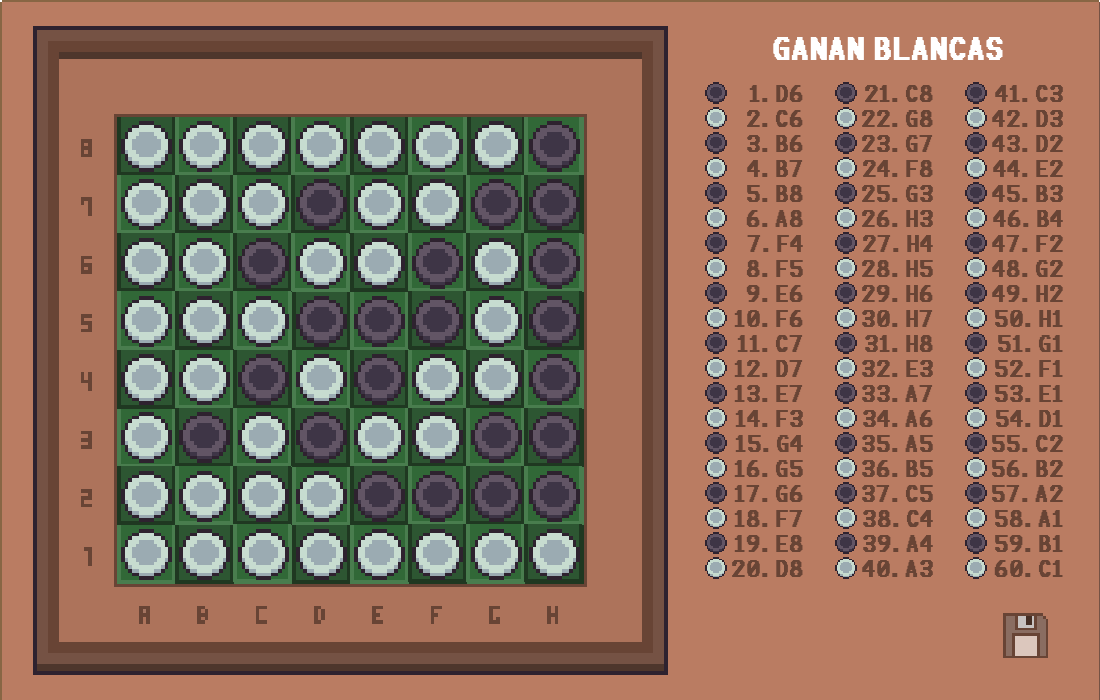
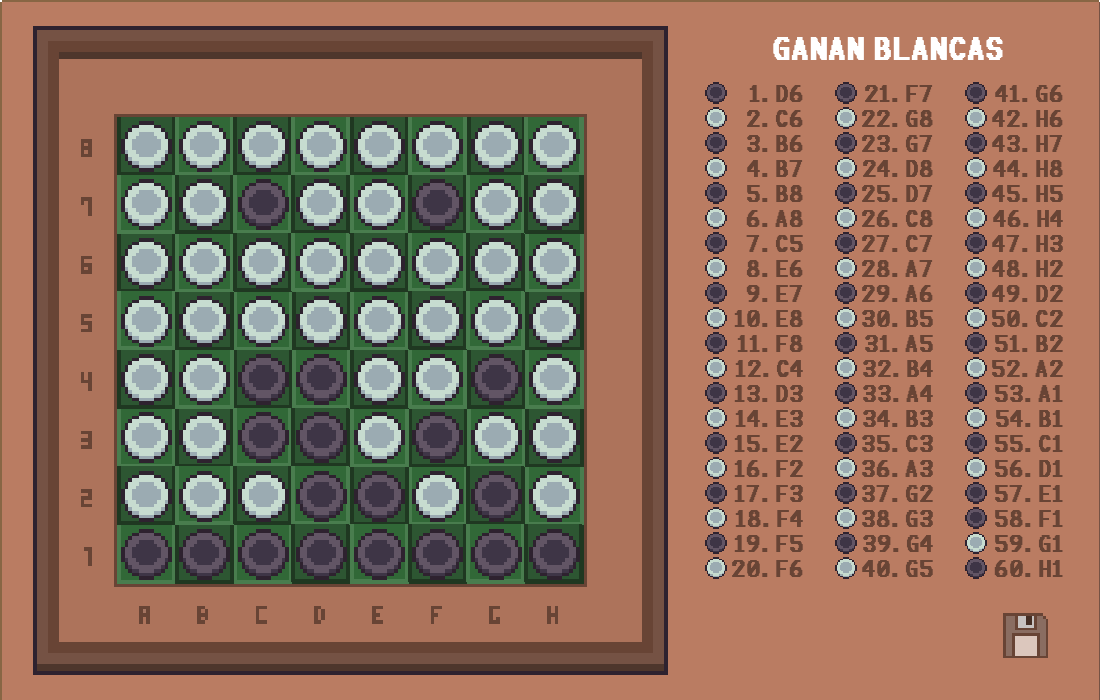
Introducidos cambios visuales en el tablero y función evaluadora por movilidad

diff --git a/src/jugadores/JugadorInteligente.py b/src/jugadores/JugadorInteligente.py
@@ -32,16 +32,46 @@ class JugadorInteligente():
 
         return random.randint(-100, 100)
     
-    def evaluarFichas(self,motor:IMotorDeJuego):
+    def evaluarFichas(self,motor:IMotorDeJuego,jugador:IJugador):
         """Evalua el movimiento en función del número de fichas de los jugadores, cuantas más fichas mejor"""
 
-        jugadorActivo = motor.getJugadorActivo()
-        jugadorContrario = motor.obtenerJugadorContario(jugadorActivo)
+        jugadorContrario = motor.obtenerJugadorContario(jugador)
 
-        fichasJugador = motor.obtenerFichasJugador(jugadorActivo)
+        fichasJugador = motor.obtenerFichasJugador(jugador)
         fichasContrario = motor.obtenerFichasJugador(jugadorContrario)
 
         return 100*(fichasJugador-fichasContrario)/(fichasJugador+fichasContrario)
+    
+    def evaluarMovilidad(self,motor:IMotorDeJuego,jugador:IJugador):
+        """Evalua el movimiento en función del número del número de movimientos posibles, cuantos más movimientos mejor"""
+
+        jugadorContrario = motor.obtenerJugadorContario(jugador)
+
+        movimientosJugador = len(motor.posiblesMovimientosJugador(jugador))
+        movimientosContrario = len(motor.posiblesMovimientosJugador(jugadorContrario))
+
+        if (movimientosJugador + movimientosContrario != 0):
+            puntuacion = 100*(movimientosJugador-movimientosContrario)/(movimientosJugador+movimientosContrario)
+        else:
+            puntuacion = 0
+
+        return puntuacion
+    
+    def evaluarEsquinas(self,motor:IMotorDeJuego,jugador:IJugador):
+        """Evalua el movimiento en función del número del número de movimientos posibles, cuantos más movimientos mejor"""
+
+        jugadorContrario = motor.obtenerJugadorContario(jugador)
+
+        #TODO:ARREGLAR
+        esquinasJugador = len(motor.posiblesMovimientosJugador(jugador))
+        esquinasContrario = len(motor.posiblesMovimientosJugador(jugadorContrario))
+
+        if (esquinasJugador + esquinasContrario != 0):
+            puntuacion = 100*(esquinasJugador-esquinasContrario)/(esquinasJugador+esquinasContrario)
+        else:
+            puntuacion = 0
+
+        return puntuacion
 
     def eligeMovimiento(self,motor:IMotorDeJuego):
         puntuacion, movimiento = self.minimax(motor,self,c.MAXIMA_PROFUNDIDAD_MINIMAX)
@@ -55,8 +85,10 @@ class JugadorInteligente():
             if (self.evaluador == c.EVALUADOR_RANDOM):
                 return self.evaluarRandom(motor), None
             elif (self.evaluador == c.EVALUADOR_FICHAS):
-                return self.evaluarFichas(motor), None
-            
+                return self.evaluarFichas(motor,jugador), None
+            elif (self.evaluador == c.EVALUADOR_MOVILIDAD):
+                return self.evaluarMovilidad(motor,jugador), None
+                        
         #Incializar valores
         if motor.getJugadorActivo() == jugador:
             mejorPuntuacion = float('-inf')
@@ -66,7 +98,8 @@ class JugadorInteligente():
         movimientos = motor.posiblesMovimientos()
 
         if (len(movimientos) > 0):
-            mejorMovimiento = movimientos[0]
+            pos = random.randint(0, len(movimientos)-1)
+            mejorMovimiento = movimientos[pos]
         else:
             mejorMovimiento = None
 

diff --git a/src/ModoDesarrollador.py b/src/ModoDesarrollador.py
@@ -7,56 +7,8 @@ from motores import IMotorDeJuego
 from motores import MotorDeJuego
 from jugadores import JugadorInteligente
 
-class ModoDesarrollador: 
 
-    _juego : IMotorDeJuego
-    _jugador1: JugadorInteligente
-    _jugador2: JugadorInteligente
-
-    def __init__(self):
-        self._jugador1 = JugadorInteligente(c.NEGRO,c.P1,c.EVALUADOR_RANDOM)
-        self._jugador2 = JugadorInteligente(c.BLANCO,c.P2,c.EVALUADOR_RANDOM)
-        self._juego = MotorDeJuego(self._jugador1,self._jugador2)
-
-    def juegaUnaPartida(self):
-        i = 0
-
-        while (not self._juego.comprobarFinJuego()):
-
-            i+= 1
-            
-            if (not self._juego.comprobarPosiblesMovimientos()):
-                #Cambiar el turno al siguiente jugador
-                self._juego.cambiarTurno(self._juego.getJugadorActivo())
-            else:
-
-                if (self._juego.getJugadorActivo() == self._jugador1):
-                    movimiento = self._jugador1.eligeMovimiento(self._juego)
-                else:
-                    movimiento = self._jugador2.eligeMovimiento(self._juego)
-
-                if movimiento is not None:
-                    fila = movimiento[0]
-                    columna = movimiento[1]
-
-                    #Comprobar si hay fichas que han quedado encerradas tras el movimiento
-                    celdas = self._juego.fichasContrariasEncerradas(fila,columna)
-
-                    #Realizar el movimiento
-                    self._juego.colocarFicha(fila,columna,celdas)              
-
-
-        ganador = self._juego.comprobarGanador()
-        
-        print("MOVIMIENTO: ", i)
-
-        print(self._juego.getTablero())   
-
-        print(ganador)
-
-        return ganador
-
-def juegaUnaPartidaFuera(jugador1,jugador2,juego):
+def juegaUnaPartida(jugador1,jugador2,juego):
         i = 0
 
         while (not juego.comprobarFinJuego()):
@@ -82,15 +34,15 @@ def juegaUnaPartidaFuera(jugador1,jugador2,juego):
                     celdas = juego.fichasContrariasEncerradas(fila,columna)
 
                     #Realizar el movimiento
-                    juego.colocarFicha(fila,columna,celdas)          
+                    juego.colocarFicha(fila,columna,celdas)   
 
         ganador = juego.comprobarGanador()
         
-        """print("MOVIMIENTO: ", i)
+        print("MOVIMIENTO: ", i)
 
         print(juego.getTablero())   
 
-        print(ganador)"""
+        print(ganador)
 
         return ganador
 
@@ -100,14 +52,16 @@ def main():
     contadorBlancas = 0
     contadorEmpates = 0
 
-    jugador1 = JugadorInteligente(c.NEGRO,c.P1,c.EVALUADOR_FICHAS)
+    jugador1 = JugadorInteligente(c.NEGRO,c.P1,c.EVALUADOR_MOVILIDAD)
     jugador2 = JugadorInteligente(c.BLANCO,c.P2,c.EVALUADOR_RANDOM)
 
-    for _ in range(c.PARTIDAS):  
+    for partida in range(c.PARTIDAS):  
+
+        print("JUGANDO PARTIDA...", partida)
 
         juego = MotorDeJuego(jugador1,jugador2)
 
-        ganador = juegaUnaPartidaFuera(jugador1,jugador2,juego)
+        ganador = juegaUnaPartida(jugador1,jugador2,juego)
 
         if ganador == c.JUGADOR1_GANA:
             contadorNegras += 1

diff --git a/src/motores/MotorDeJuego.py b/src/motores/MotorDeJuego.py
@@ -202,13 +202,17 @@ class MotorDeJuego ():
             self._fichasBlancas += cantidadFichas
             self._fichasNegras -= cantidadFichas
 
-    def fichasContrariasEncerradas(self,filaColocacion:int,columnaColocacion:int):
+    def fichasContrariasEncerradas(self,filaColocacion:int,columnaColocacion:int,jugador: IJugador = None, contrario:IJugador = None):
         """Determinar que celdas han sido encerradas tras la colocación y cambiar su valor"""
         celdasEncerradas = []
         celdas = []
 
-        valorContrario = self.obtenerValorContario(self.getJugadorActivo().getTurno())
-        valorJugador = self.getJugadorActivo().getTurno()
+        if jugador is None and contrario is None:
+            valorContrario = self.obtenerValorContario(self.getJugadorActivo().getTurno())
+            valorJugador = self.getJugadorActivo().getTurno()
+        else: 
+            valorContrario = self.obtenerValorContario(jugador.getTurno())
+            valorJugador = jugador.getTurno()
 
         # Rectas
         # Arriba, Abajo, Izquierda, Derecha, DiagonalArribaIzquierda, DiagonalArribaDerecha, DiagonalAbajoIzquierda, DiagonalAbajoDerecha
@@ -292,6 +296,22 @@ class MotorDeJuego ():
             for columna in range(c.CELDAS):
                 if (self.obtenerValorCelda(fila,columna) == 0):
                     encerradas = self.fichasContrariasEncerradas(fila,columna)
+                    if (len(encerradas) > 0):
+                        movimientos.append((fila,columna))
+
+        return movimientos
+    
+    def posiblesMovimientosJugador(self,jugador:IJugador):
+        """Recorrer el tablero buscando los posibles movimientos para el jugador indicado"""
+        movimientos = []
+
+        contrario = self.obtenerJugadorContario(jugador.getTurno())
+        
+        #Recorrer tablero comprobando cada celda
+        for fila in range(c.CELDAS):
+            for columna in range(c.CELDAS):
+                if (self.obtenerValorCelda(fila,columna) == 0):
+                    encerradas = self.fichasContrariasEncerradas(fila,columna,jugador,contrario)
                     if (len(encerradas) > 0):
                         movimientos.append((fila,columna))
 

diff --git a/src/Constantes.py b/src/Constantes.py
@@ -109,8 +109,10 @@ CELDAS_OSCURAS = [(0,A),(0,C),(0,E),(0,G),(1,B),(1,D),(1,F),(1,H),(2,A),(2,C),(2
 
 
 #Inteligencia Artificial
-PARTIDAS = 10
+PARTIDAS = 35
 EVALUADOR_RANDOM = 0
 EVALUADOR_FICHAS = 1
-EVALUADOR_ESQUINAS = 2
-MAXIMA_PROFUNDIDAD_MINIMAX = 2
+EVALUADOR_MOVILIDAD = 2
+EVALUADOR_ESQUINAS = 3
+
+MAXIMA_PROFUNDIDAD_MINIMAX = 5
